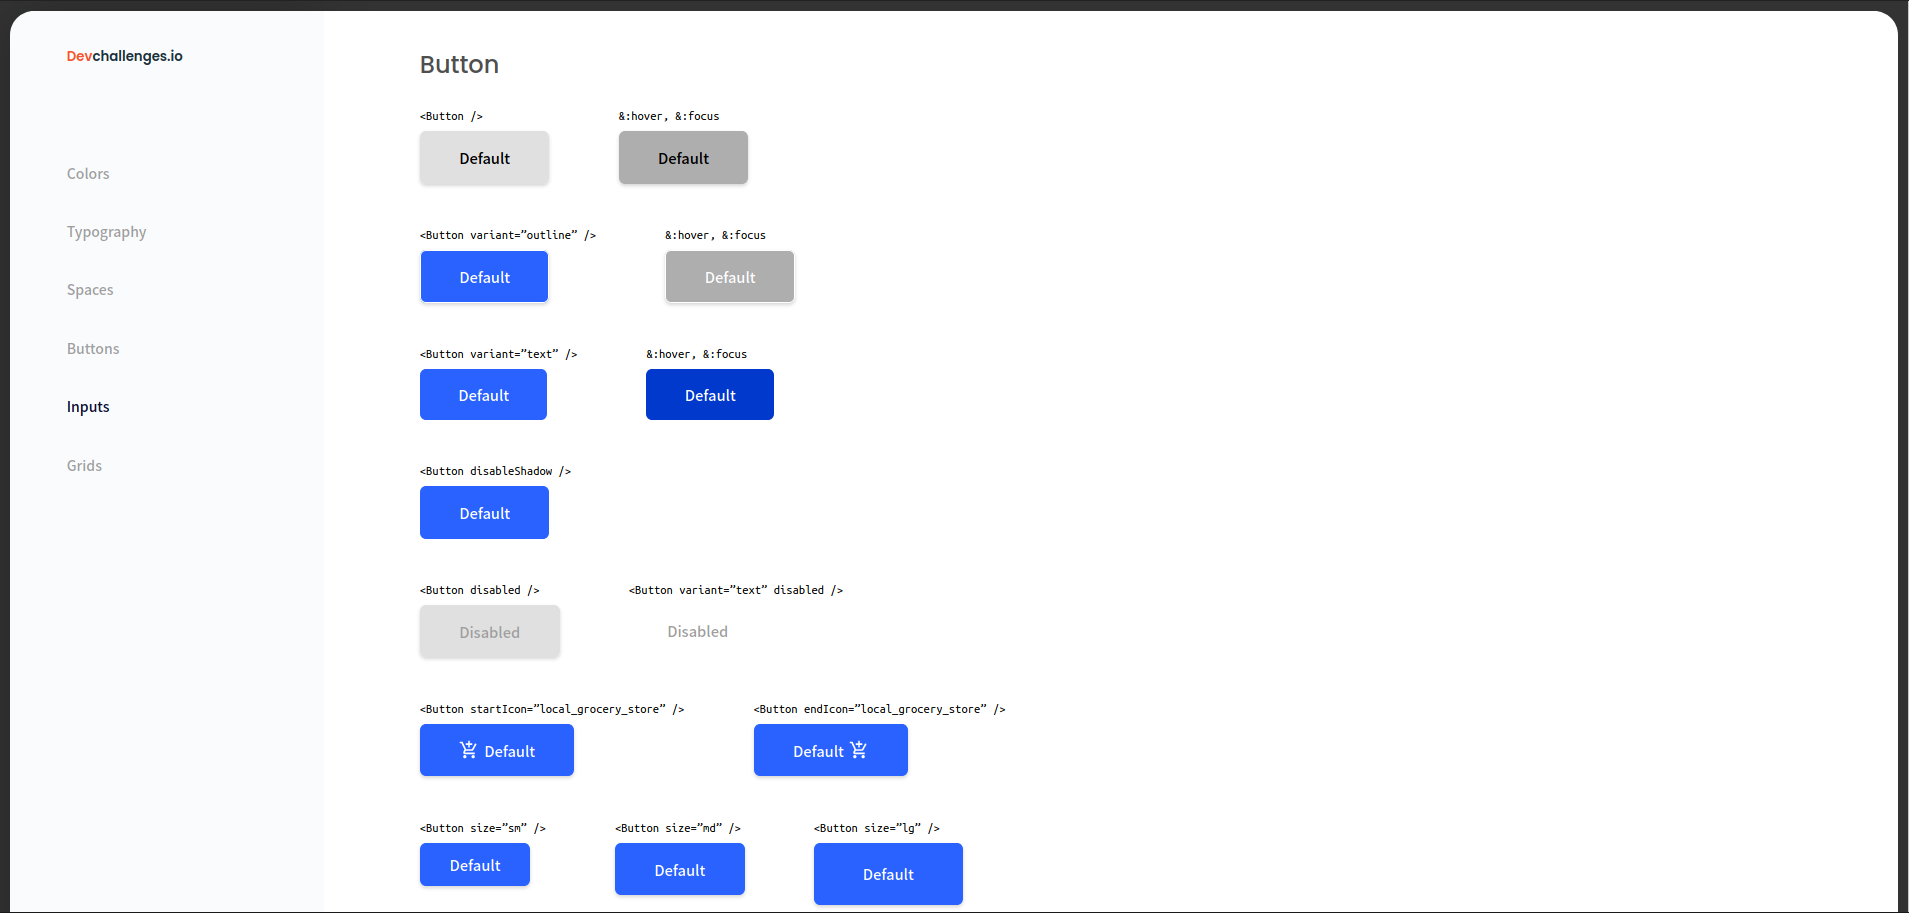
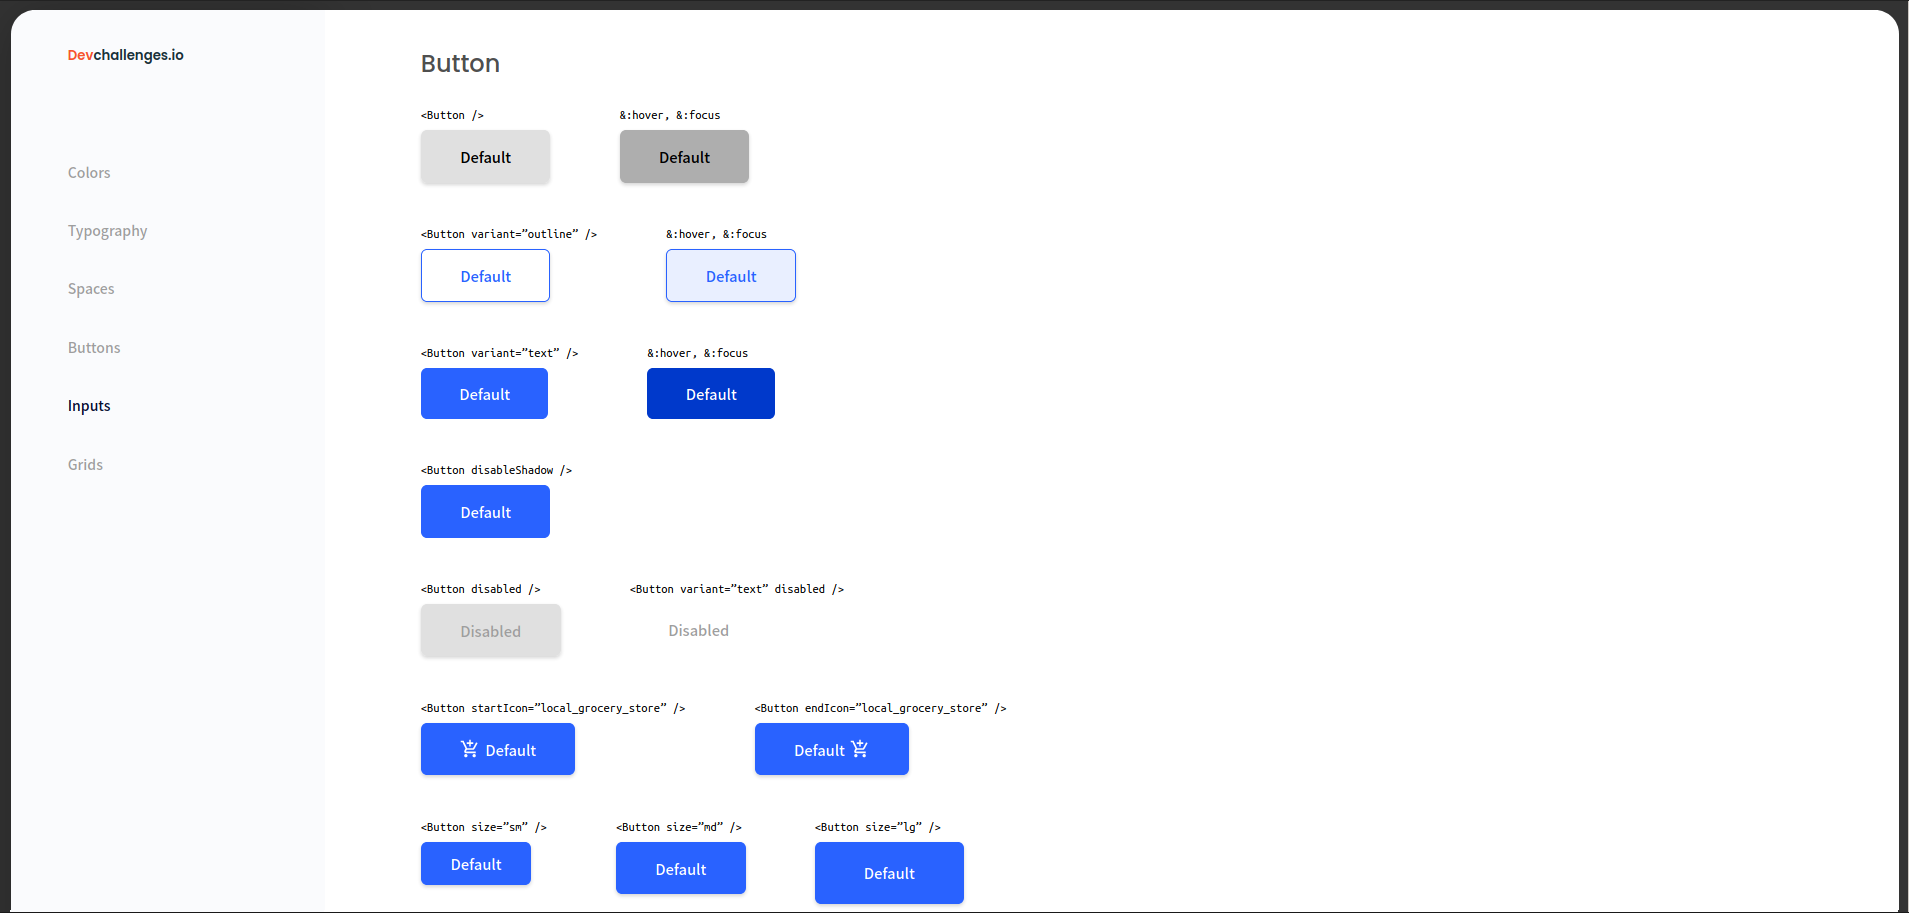
Fix outline style in Button component

diff --git a/src/components/Button/styles.ts b/src/components/Button/styles.ts
@@ -26,10 +26,6 @@ export const Btn = styled.button<ButtonProps>`
   text-transform: capitalize;
   border: 1px solid transparent;
 
-  &.outline {
-    background-color: transparent;
-    border: 1px solid;
-  }
   &.text {
     background-color: transparent;
     border: none;
@@ -69,6 +65,14 @@ export const Btn = styled.button<ButtonProps>`
 
     &.hover {
       background-color: var(--e-global-color-button-danger-hover);
+    }
+  }
+  &.outline {
+    background-color: transparent;
+    color: var(--e-global-color-button-primary);
+    border: 1px solid;
+    &.hover {
+      background: rgba(41, 98, 255, 0.1);
     }
   }
   &.hover,

diff --git a/src/components/Hero/index.tsx b/src/components/Hero/index.tsx
@@ -16,7 +16,7 @@ const Hero: React.FC = () => {
         <Button color="primary" variant="outline">
           {`<Button variant=”outline” />`}
         </Button>
-        <Button color="primary" variant="outline" focus>
+        <Button color="primary" variant="outline" hover>
           &:hover, &:focus
         </Button>
       </ButtonsContainer>
